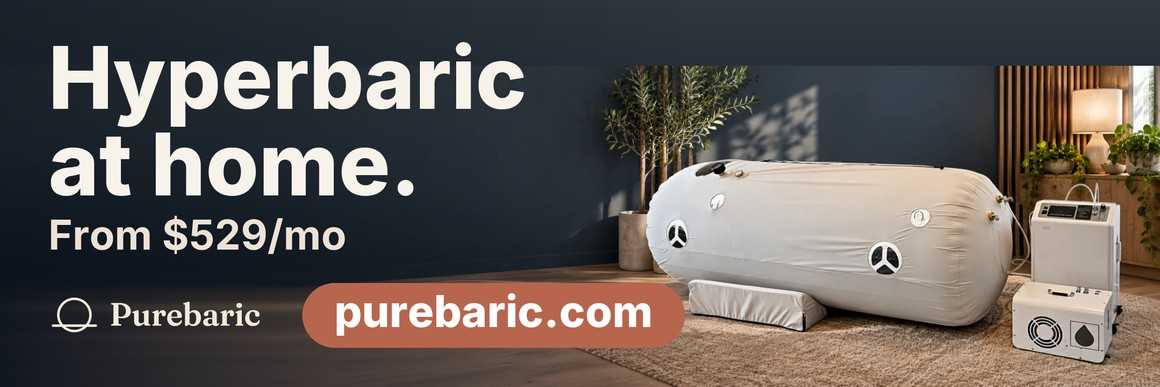
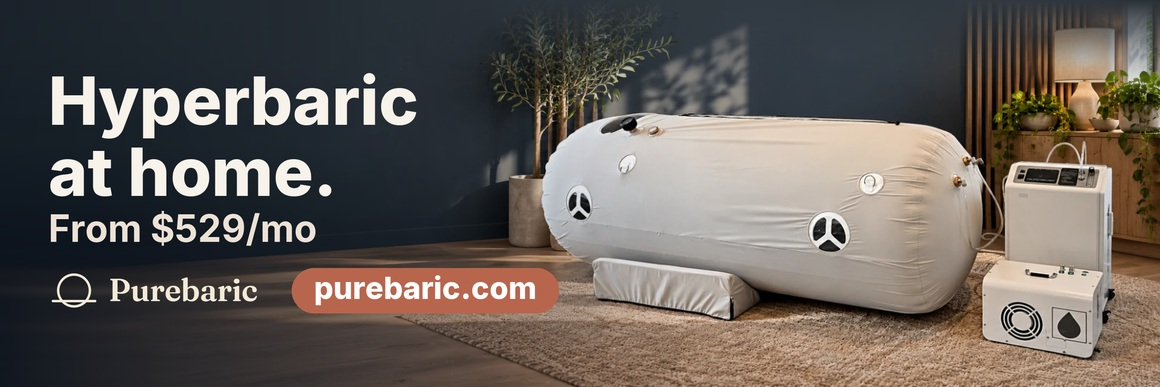
billboards: final design D after three critique rounds

diff --git a/_internal/billboards/generate-billboards.py b/_internal/billboards/generate-billboards.py
@@ -26,15 +26,33 @@ def wall_fill(ph,w,h,wall_only=False):
     src=ph.crop((40,0,41,min(ph.height,int(ph.height*0.3)))) if wall_only else ph.crop((40,0,41,ph.height))
     return src.resize((w,h),Image.BILINEAR)
 
+
+def top_fill(ph,w,h):
+    """fill derived from the photo's own top rows: stretched, heavily blurred, lightly dithered so it never bands or blocks"""
+    from PIL import ImageFilter
+    import random
+    # sample only the plain navy wall (left 40% of the photo's top rows) so wood and lamp tones don't smear into the band
+    strip=ph.crop((0,0,max(2,int(ph.width*0.4)),6)).resize((w,h),Image.BILINEAR).filter(ImageFilter.GaussianBlur(45))
+    noise=Image.effect_noise((w,h),6).convert('L')          # ~1.5% luminance dither
+    return Image.composite(strip.point(lambda v:min(255,v+4)),strip,noise)
+
+def blend_down(canvas,fill_src,x,top,span,width):
+    """fade the band fill down over the photo's top `span` rows: fill alpha 1 at `top`, 0 at top+span"""
+    span=max(8,span)
+    fill=top_fill(fill_src,width,span)
+    mask=Image.new('L',(width,span),0); md=ImageDraw.Draw(mask)
+    for y in range(span): md.line([(0,y),(width,y)],fill=int(255*(1-y/span)**1.1))
+    canvas.paste(fill,(x,top),mask)
+    return canvas
+
 def place_photo(canvas, pw, x0):
     """scale the photo to width pw; if shorter than H extend the wall upward, if taller crop vertically; paste at x0"""
     r=pw/photo.width; ph=photo.resize((pw,int(photo.height*r)),Image.LANCZOS)
     if ph.height<H:
-        top=H-ph.height; ext=Image.new('RGB',(pw,H)); ext.paste(wall_fill(ph,pw,top+2,True),(0,0)); ext.paste(ph,(0,top))
-        # blend the seam
-        sh_=min(220,ph.height//2); seam=Image.new('L',(pw,sh_),0); sd=ImageDraw.Draw(seam)
-        for y in range(sh_): sd.line([(0,y),(pw,y)],fill=int(255*(y/sh_)**1.4))
-        ext.paste(ph.crop((0,0,pw,sh_)),(0,top),seam); ph=ext
+        top=H-ph.height; ext=Image.new('RGB',(pw,H))
+        ext.paste(top_fill(ph,pw,top+2),(0,0)); ext.paste(ph,(0,top))
+        ext=blend_down(ext,ph,0,top,int(H*0.25),pw)
+        ph=ext
     else:
         cut=ph.height-H; ph=ph.crop((0,int(cut*0.35),pw,int(cut*0.35)+H))
     canvas.paste(ph,(x0,0))
@@ -61,8 +79,15 @@ def shade_left(im,W,reach=0.6):
     return Image.composite(Image.new('RGB',(W,H),(10,18,28)),im,grad)
 
 def photo_scene(W):
-    im=Image.new('RGB',(W,H)); pw=int(W*0.78); im=place_photo(im,pw,W-pw)
-    return shade_left(im,W)
+    r=H/photo.height; pw=int(photo.width*r); ph=photo.resize((pw,H),Image.LANCZOS)
+    x0=W-pw
+    im=Image.new('RGB',(W,H))
+    if x0>=0: place_photo(im,pw,x0)
+    else: im.paste(ph.crop((-x0,0,pw,H)),(0,0))
+    im=shade_left(im,W)
+    im.info['plant_x']=x0+int(pw*0.37)      # olive tree starts here
+    im.info['cushion_x']=x0+int(pw*0.478)   # foam cushion under the chamber starts here
+    return im
 
 def pill(draw,xy,text,font,bg,fg,padx=36,pady=16,r=40):
     x,y=xy; w=draw.textlength(text,font=font); asc,desc=font.getmetrics(); h=asc+desc
@@ -80,11 +105,11 @@ def logo_row(im,d,kind,M,url_style,W,small=False,bottom_pad=None):
 
 NARROW=2.6
 def narrow_scene(W,band):
-    # text band on top, photo bottom-right, wall extended everywhere else
+    # text band on top, photo bottom-right; the band is the photo's own top colour, blurred, and the photo fades up into it
     hp=H-band; r=hp/photo.height; pw=int(photo.width*r); ph=photo.resize((pw,hp),Image.LANCZOS)
-    im=Image.new('RGB',(W,H)); im.paste(wall_fill(ph,W,H,True),(0,0))
     x0=max(0,W-pw)
     if pw>W: ph=ph.crop((pw-W,0,pw,hp)); pw=W
+    im=Image.new('RGB',(W,H)); im.paste(top_fill(ph,W,band+2),(0,0))
     im.paste(ph,(x0,band))
     if x0>0:
         from PIL import ImageFilter
@@ -93,10 +118,7 @@ def narrow_scene(W,band):
         mask=Image.new('L',(sw,hp),0); md=ImageDraw.Draw(mask)
         for x in range(sw): md.line([(x,0),(x,hp)],fill=int(255*(1-x/sw)**1.6))
         im.paste(fade,(x0,band),mask)
-    # soften the top seam of the photo
-    seam=Image.new('L',(W,50),0); sd=ImageDraw.Draw(seam)
-    for y in range(50): sd.line([(0,y),(W,y)],fill=int(255*y/50))
-    im.paste(im.crop((0,band,W,band+50)),(0,band),seam)
+    im=blend_down(im,ph,0,band,int(H*0.25),W)
     return shade_left(im,W,reach=0.9)
 
 def design_a(W):
@@ -169,7 +191,7 @@ CAP=0.72; XH=0.54; ASC=0.97          # Inter: cap height, x-height, ascent as fr
 LOGO_INK=129/192                     # wordmark cap height as a fraction of the logo image height
 def cap_text(d,x,cap_top,text,font,fill):
     """draw text so that its cap top sits exactly at cap_top; returns baseline y"""
-    sz=font.size; d.text((x,cap_top-int(sz*(ASC-CAP))),text,font=font,fill=fill); return cap_top+int(sz*CAP)
+    sz=font.size; d.text((x,cap_top-round(sz*(ASC-CAP))),text,font=font,fill=fill); return cap_top+round(sz*CAP)
 def pill2(d,x,top,text,sz,bg,fg):
     """URL pill: height 2.75 x-heights, side padding and radius half the height, text centred on x-height"""
     f=F('ExtraBold',sz); xh=sz*XH; ph=int(xh*2.75); padx=ph//2
@@ -178,45 +200,59 @@ def pill2(d,x,top,text,sz,bg,fg):
     xtop=top+(ph-xh)/2; d.text((x+padx,xtop-sz*(ASC-XH)),text,font=f,fill=fg)
     return int(tw+2*padx),ph
 
+FINAL_H=[400]   # set by the export loop: final pixel height, used for legibility floors
 def design_d(W):
-    """Hyperbaric at home. / From $529/mo.  Rhythm in units of the headline cap height Hc:
-       line pitch 1.40Hc, price cap 0.48Hc with 0.40Hc above, URL x-height 0.38Hc in a 2.75x pill,
-       wordmark cap 0.40Hc, top margin 12% of board height, bottom margin 10%."""
-    top=int(H*0.12); bot=int(H*0.10); M=100
+    """Hyperbaric at home. / From $529/mo.  Units of the headline cap height Hc:
+       line pitch 1.48Hc, price cap 0.56Hc with 0.40Hc above, URL x-height 0.34Hc (floor 11 final px) in a 2.75x pill,
+       wordmark cap 0.45Hc (floors 14px cap / 10px x-height), top margin 11%, bottom margin 10%."""
+    k=H/FINAL_H[0]                      # master px per final px
+    top=int(H*0.11); bot=int(H*0.10); M=100
+    def parts(sz):
+        Hc=sz*CAP
+        price_sz=round(0.56*Hc/CAP)
+        url_xh=max(0.34*Hc,11*k); url_sz=round(url_xh/XH); pill_h=round(url_sz*XH*2.75)
+        logo_cap=max(0.45*Hc,14*k,10*k/0.72); logo_h=round(1.12*logo_cap/LOGO_INK)   # x1.12: the ink height includes the b ascender
+        return Hc,price_sz,url_sz,pill_h,logo_h
     if W/H<NARROW:
         M=80; colw=W-2*M
         sz=fit(d0(),"Hyperbaric at home.",'ExtraBold',colw,190).size
         while True:
-            Hc=sz*CAP; price_sz=int(0.48*Hc/CAP); url_sz=int(0.38*Hc/XH); pill_h=int(url_sz*XH*2.75)
-            logo_h=int(0.40*Hc/LOGO_INK); gap=int(0.85*Hc)
-            price_base=top+int(Hc)+int(0.40*Hc)+int(0.48*Hc)
+            Hc,price_sz,url_sz,pill_h,logo_h=parts(sz); gap=int(0.85*Hc)
+            price_base=top+round(Hc)+round(0.40*Hc)+round(0.56*Hc)
             need=price_base+gap+pill_h+gap+logo_h+bot
             if need<=H or sz<=60: break
             sz-=4
+        # cap the gap between price and pill at 1.2Hc; leftover goes to the top margin
+        ly=H-bot-logo_h; pill_top=ly-gap-pill_h
+        slack=(pill_top-price_base)-round(1.2*Hc)
+        shift=max(0,slack); top+=shift; price_base+=shift
         band=price_base+int(0.3*Hc)
         im=narrow_scene(W,band); d=ImageDraw.Draw(im)
         base1=cap_text(d,M,top,"Hyperbaric at home.",F('ExtraBold',sz),CREAM)
-        cap_text(d,M,base1+int(0.40*Hc),"From $529/mo",F('Bold',price_sz),(236,226,214))
-        # stack the pill and logo from the bottom with equal gaps; leftover space goes above the pill
-        lg=logo('cream',logo_h); ly=H-bot-lg.height; im.paste(lg,(M,ly),lg)
-        pill2(d,M,ly-gap-pill_h,"purebaric.com",url_sz,TERRA,(255,255,255))
+        cap_text(d,M,base1+round(0.40*Hc),"From $529/mo",F('Bold',price_sz),(236,226,214))
+        lg=logo('cream',logo_h); im.paste(lg,(M,ly),lg)
+        pill2(d,M,pill_top,"purebaric.com",url_sz,TERRA,(255,255,255))
         return im
-    im=photo_scene(W); d=ImageDraw.Draw(im); colw=int(W*0.53)-M
+    im=photo_scene(W); d=ImageDraw.Draw(im)
+    plant_x=im.info.get('plant_x',int(W*0.53)); cushion_x=im.info.get('cushion_x',W)
+    col_right=min(int(W*0.53), plant_x); colw=col_right-M
     sz=fit(d,"Hyperbaric",'ExtraBold',colw,210).size
     while True:
-        Hc=sz*CAP; price_sz=int(0.48*Hc/CAP); url_sz=int(0.38*Hc/XH); pill_h=int(url_sz*XH*2.75)
-        logo_h=int(0.40*Hc/LOGO_INK); row_h=max(pill_h,logo_h)
-        base2=top+int(1.40*Hc)+int(Hc); price_base=base2+int(0.40*Hc)+int(0.48*Hc)
-        need=price_base+int(0.55*Hc)+row_h+bot
-        if need<=H or sz<=80: break
+        Hc,price_sz,url_sz,pill_h,logo_h=parts(sz); row_h=max(pill_h,logo_h)
+        base2=top+round(1.48*Hc)+round(Hc); price_base=base2+round(0.40*Hc)+round(0.56*Hc)
+        need=price_base+round(0.55*Hc)+row_h+bot
+        lgw=round(logo_h*1136/192); fu=F('ExtraBold',url_sz)
+        row_end=M+lgw+round(0.6*Hc)+d.textlength("purebaric.com",font=fu)+pill_h   # pill padding = half its height each side
+        if (need<=H and row_end<=cushion_x-0.6*Hc) or sz<=80: break
         sz-=4
+    top+= max(0,(H-need)//2)   # split any freed height above the headline and below the pill
     f=F('ExtraBold',sz)
     cap_text(d,M,top,"Hyperbaric",f,CREAM)
-    base2=cap_text(d,M,top+int(1.40*Hc),"at home.",f,CREAM)
-    price_base=cap_text(d,M,base2+int(0.40*Hc),"From $529/mo",F('Bold',price_sz),(236,226,214))
-    row_top=price_base+int(0.55*Hc)
+    base2=cap_text(d,M,top+round(1.48*Hc),"at home.",f,CREAM)
+    price_base=cap_text(d,M,base2+round(0.40*Hc),"From $529/mo",F('Bold',price_sz),(236,226,214))
+    row_top=price_base+round(0.55*Hc)
     lg=logo('cream',logo_h); im.paste(lg,(M,row_top+(row_h-lg.height)//2),lg)
-    pill2(d,M+lg.width+int(0.6*Hc),row_top+(row_h-pill_h)//2,"purebaric.com",url_sz,TERRA,(255,255,255))
+    pill2(d,M+lg.width+round(0.6*Hc),row_top+(row_h-pill_h)//2,"purebaric.com",url_sz,TERRA,(255,255,255))
     return im
 
 SIZES=[(1400,400,'lamar-bulletin'),(1536,384,'blip-4x1'),(1160,387,'blip-3x1'),(840,400,'lamar-840x400'),(880,240,'reagan-digital-bulletin'),(432,208,'reagan-digital-poster')]
@@ -224,8 +260,12 @@ DESIGNS=[('A-bring-hyperbaric-home',design_a),('B-hyperbaric-at-home',design_b),
 os.makedirs(os.path.join(OUT,'final'),exist_ok=True)
 for name,fn in DESIGNS:
     for w,h,tag in SIZES:
-        W=int(round(H*w/h)); im=fn(W)
-        im.resize((w,h),Image.LANCZOS).save(os.path.join(OUT,'final','%s-%dx%d-%s.jpg'%(name,w,h,tag)),quality=90)
+        W=int(round(H*w/h)); FINAL_H[0]=h; im=fn(W)
+        out=im.resize((w,h),Image.LANCZOS)
+        if name.startswith('D') and W/H<NARROW:
+            n=Image.effect_noise((w,h),3).convert('L')   # +/-2 levels
+            out=Image.composite(out.point(lambda v:min(255,v+2)),out.point(lambda v:max(0,v-2)),n)
+        out.save(os.path.join(OUT,'final','%s-%dx%d-%s.jpg'%(name,w,h,tag)),quality=94)
         if (w,h)==(1400,400): im.save(os.path.join(OUT,'final','%s-2800x800-master.png'%name))
 # contact sheets: one per design, all sizes stacked
 for name,_ in DESIGNS:
